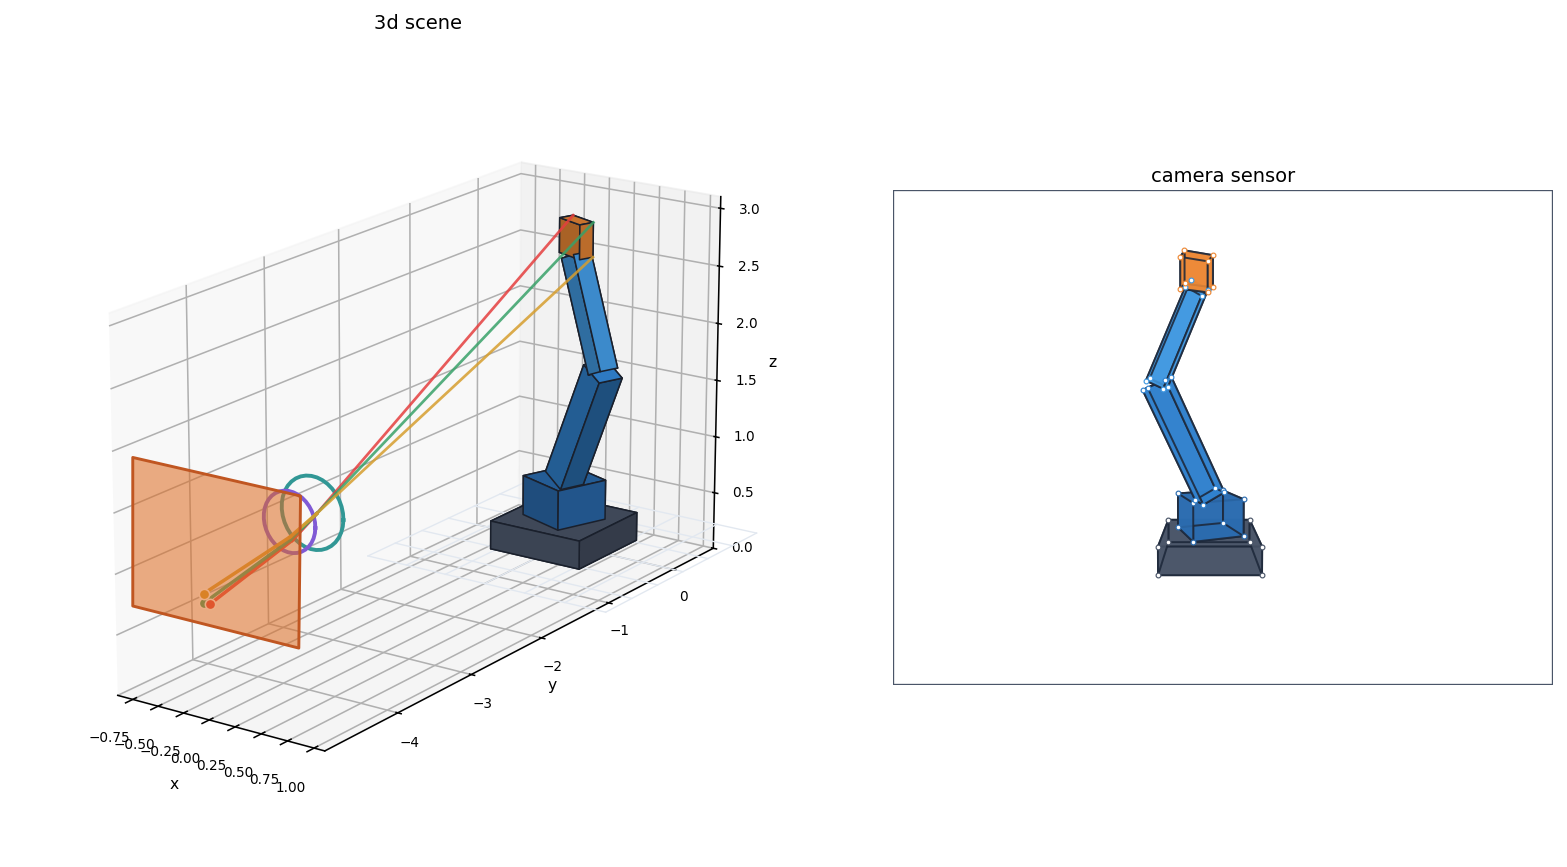
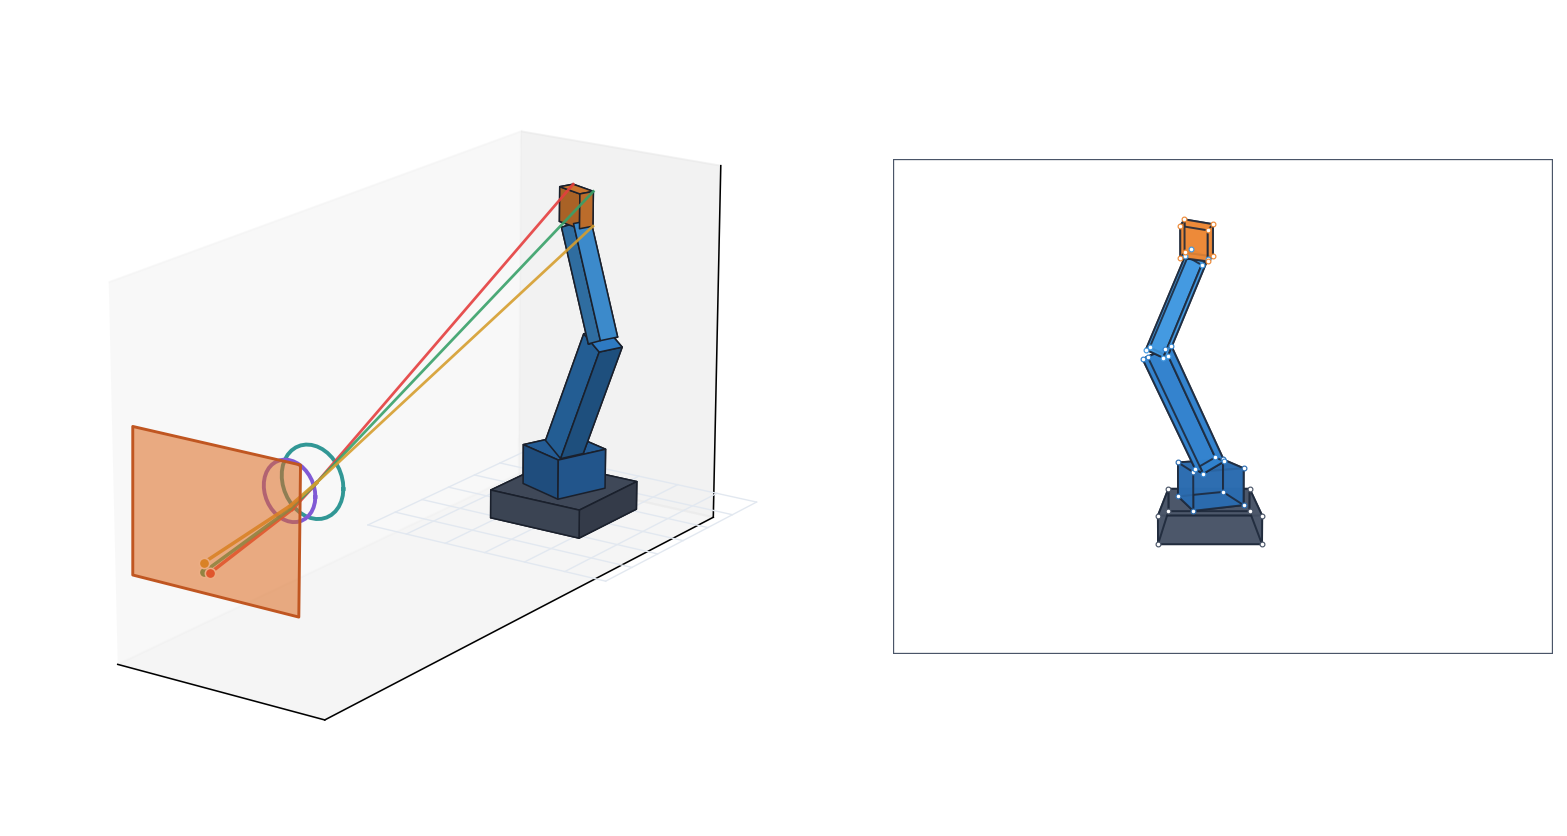
Regenerate every linked figure from the current examples
The README gallery and docs/extensors.md now show renders of the current code, without
titles, legends, labels or tick marks: the coupled suspension's modes (replacing the old
stiffness animation), the gravitational wave detector, the scenegraph, the multiview
reconstruction, plane waves in glass and a birefringent crystal, and the linked vortex
on the 3-sphere. The constitutive figures lose their remaining text.

diff --git a/examples/electromagnetism/constitutive/render.py b/examples/electromagnetism/constitutive/render.py
@@ -33,7 +33,6 @@ def draw_wave_propagation(
     tau: float = 0.0,
     z_max: float = 4.0 * np.pi,
     omega: float = 1.0,
-    title: str = r"Traveling $\mathbf{E}$ and $\mathbf{B}$ Field Vectors",
 ) -> None:
     """Draw 3D spatial snapshot of traveling E and B field vectors in medium along propagation axis z."""
     z = np.linspace(0, z_max, 200)
@@ -63,8 +62,8 @@ def draw_wave_propagation(
     ax.plot([0, 0], [0, 0], [0, z_max], color="gray", linestyle="--", linewidth=1.2, alpha=0.5)
 
     # Continuous wave envelopes:
-    ax.plot(ex_total, ey_total, z, color="crimson", linewidth=2.0, label="E", zorder=5)
-    ax.plot(bx_total, by_total, z, color="dodgerblue", linewidth=1.6, linestyle="--", label="B", zorder=4)
+    ax.plot(ex_total, ey_total, z, color="crimson", linewidth=2.0, zorder=5)
+    ax.plot(bx_total, by_total, z, color="dodgerblue", linewidth=1.6, linestyle="--", zorder=4)
 
     # Quiver arrows at discrete stations:
     n_stations = 21
@@ -89,11 +88,6 @@ def draw_wave_propagation(
     ax.set_xlim([-1.3, 1.3])
     ax.set_ylim([-1.3, 1.3])
     ax.set_zlim([0, z_max])
-    ax.set_xlabel("x")
-    ax.set_ylabel("y")
-    ax.set_zlabel("z")
-    ax.set_title(title, fontsize=10, pad=6)
-    ax.legend(loc="upper right", fontsize=8.5)
     ax.view_init(elev=20, azim=-60)
     _no_ticks(ax)
     ax.set_zticks([])
@@ -108,14 +102,8 @@ def draw_wave_comparison_3d(
     """Render side-by-side 3D views comparing isotropic vs birefringent medium."""
     ax1 = fig.add_subplot(1, 2, 1, projection="3d")
     ax2 = fig.add_subplot(1, 2, 2, projection="3d")
-    draw_wave_propagation(
-        ax1, glass_modes, z_max=z_max,
-        title="isotropic glass",
-    )
-    draw_wave_propagation(
-        ax2, crystal_modes, z_max=z_max,
-        title="birefringent crystal",
-    )
+    draw_wave_propagation(ax1, glass_modes, z_max=z_max)             # isotropic glass
+    draw_wave_propagation(ax2, crystal_modes, z_max=z_max)           # birefringent crystal
     return ax1, ax2
 
 
@@ -163,18 +151,13 @@ def draw_dispersion(
         line, = ax.semilogy(
             speeds,
             curve.to_array(),
-            label=name,
             linestyle="--" if is_axion else "-",
             linewidth=1.8 if is_axion else 1.5,
         )
         for v in expected.get(name, []):
             ax.axvline(v, color=line.get_color(), linestyle=":", linewidth=1.2, alpha=0.8)
 
-    ax.set_xlabel("phase speed v")
-    ax.set_ylabel(r"smallest $\sigma$")
-    ax.set_title("dispersion scan", fontsize=10)
     _no_ticks(ax)
-    ax.legend(loc="lower right", fontsize=8.5, framealpha=0.9)
 
 
 def draw_polarizations(
@@ -185,7 +168,7 @@ def draw_polarizations(
     ax.axhline(0, color="gray", linestyle="--", alpha=0.3)
     ax.axvline(0, color="gray", linestyle="--", alpha=0.3)
 
-    for (speed, pol), label, color in zip(modes, ("Slow Wave (v_x)", "Fast Wave (v_y)"), ("crimson", "dodgerblue")):
+    for (speed, pol), color in zip(modes, ("crimson", "dodgerblue")):              # slow wave, fast wave
         # JIT coordinate readout at visualization boundary:
         xy = pol.cast(core.STA.subspace("x y")).kernel
         vx, vy = float(xy[0]), float(xy[1])
@@ -196,7 +179,6 @@ def draw_polarizations(
             0, 0, vx, vy,
             angles="xy", scale_units="xy", scale=1,
             color=color, width=0.015,
-            label=f"{label} (v={speed:.2f})",
         )
         # Bidirectional polarization oscillation line:
         ax.plot([-vx, vx], [-vy, vy], color=color, linestyle=":", alpha=0.6)
@@ -204,11 +186,7 @@ def draw_polarizations(
     ax.set_xlim([-1.3, 1.3])
     ax.set_ylim([-1.3, 1.3])
     ax.set_aspect("equal")
-    ax.set_xlabel("Ex")
-    ax.set_ylabel("Ey")
-    ax.set_title("polarization modes", fontsize=10)
     _no_ticks(ax)
-    ax.legend(loc="upper right", fontsize=9)
 
 
 def draw_fresnel_surface_polar(
@@ -240,14 +218,11 @@ def draw_fresnel_surface_polar(
                     branch_r.append(spds[b])
                     branch_theta.append(theta)
             if branch_r:
-                label = name if b == 0 else None
-                ax.plot(branch_theta, branch_r, label=label, linewidth=1.6)
+                ax.plot(branch_theta, branch_r, linewidth=1.6)
 
     ax.set_theta_zero_location("N")  # 0 radians along +z (North)
     ax.set_theta_direction(-1)       # Clockwise: +x along East
-    ax.set_title("wave surfaces", va="bottom", fontsize=10)
     _no_ticks(ax)
-    ax.legend(loc="lower left", bbox_to_anchor=(1.05, 0.0), fontsize=8.5)
 
 
 def draw_fresnel_drag_curves(
@@ -272,20 +247,16 @@ def draw_fresnel_drag_curves(
     fresnel_up = 1.0 / refractive_index - beta_fine * fresnel_drag_coeff
 
     # Eigensolve points from boosted constitutive extensor:
-    ax.plot(betas, v_down, "ro", markersize=5, label="downstream")
-    ax.plot(betas, v_up, "bs", markersize=5, label="upstream")
+    ax.plot(betas, v_down, "ro", markersize=5)
+    ax.plot(betas, v_up, "bs", markersize=5)
 
     # Analytical theory curves:
-    ax.plot(beta_fine, einstein_down, "r-", linewidth=1.5, label="Einstein")
+    ax.plot(beta_fine, einstein_down, "r-", linewidth=1.5)
     ax.plot(beta_fine, einstein_up, "b-", linewidth=1.5)
-    ax.plot(beta_fine, fresnel_down, "r--", linewidth=1.1, alpha=0.7, label="Fresnel 1st-order")
+    ax.plot(beta_fine, fresnel_down, "r--", linewidth=1.1, alpha=0.7)
     ax.plot(beta_fine, fresnel_up, "b--", linewidth=1.1, alpha=0.7)
 
-    ax.set_xlabel(r"boost $\beta$")
-    ax.set_ylabel("phase velocity v")
-    ax.set_title("Fresnel drag", fontsize=10)
     _no_ticks(ax)
-    ax.legend(loc="best", fontsize=8.5, framealpha=0.9)
 
 
 def draw_dispersion_figure(

diff --git a/README.md b/README.md
@@ -4,7 +4,7 @@ Geometric algebra with Extensors in numpy and JAX.
 
 | [**Spring modes**](examples/mechanics/modes/) [![Open in Colab](https://colab.research.google.com/assets/colab-badge.svg)](https://colab.research.google.com/github/EelcoHoogendoorn/numga/blob/main/examples/mechanics/modes/modes.ipynb) | [**Gravitational waves**](examples/relativity/curvature/) [![Open in Colab](https://colab.research.google.com/assets/colab-badge.svg)](https://colab.research.google.com/github/EelcoHoogendoorn/numga/blob/main/examples/relativity/curvature/curvature.ipynb) |
 | :---: | :---: |
-| ![Small motions of spring-supported bodies](plots/stiffness.gif) | ![Tidal response to gravitational wave packets](plots/curvature.gif) |
+| ![Small motions of spring-supported bodies](plots/modes.gif) | ![Tidal response to gravitational wave packets](plots/curvature.gif) |
 | [**Multiview reconstruction**](examples/geometry/multiview/) [![Open in Colab](https://colab.research.google.com/assets/colab-badge.svg)](https://colab.research.google.com/github/EelcoHoogendoorn/numga/blob/main/examples/geometry/multiview/multiview_reconstruction.ipynb) | [**Spherical quadrics**](examples/quadrics/elliptic_physics/) [![Open in Colab](https://colab.research.google.com/assets/colab-badge.svg)](https://colab.research.google.com/github/EelcoHoogendoorn/numga/blob/main/examples/quadrics/elliptic_physics/s2_physics.ipynb) |
 | ![Cameras aligning on a scene](plots/multiview_convergence.gif) | ![Quadric bodies colliding on a sphere](plots/spherical_quadric_physics.gif) |
 

diff --git a/docs/extensors.md b/docs/extensors.md
@@ -64,7 +64,7 @@ pixels = local_to_pixel[:, None](unit_box[None, :])                   # [5, 8] P
 
 **Notebook**: [`examples/mechanics/modes/modes.ipynb`](../examples/mechanics/modes/modes.ipynb)
 
-![Baseline vs Coupled Normal Vibration Modes](../plots/modes.png)
+![The three vibration modes of the coupled suspension](../plots/modes.png)
 
 #### Construction
 ```python
@@ -115,7 +115,7 @@ step = curvature.solve(-gradient)                                      # [n_cams
 
 **Notebook**: [`examples/electromagnetism/constitutive/constitutive.ipynb`](../examples/electromagnetism/constitutive/constitutive.ipynb)
 
-![Constitutive dispersion, polarization precession, Fresnel surface, and drag](../plots/constitutive.png)
+![Plane waves in isotropic glass and in a birefringent crystal](../plots/constitutive.png)
 
 #### Construction
 ```python
